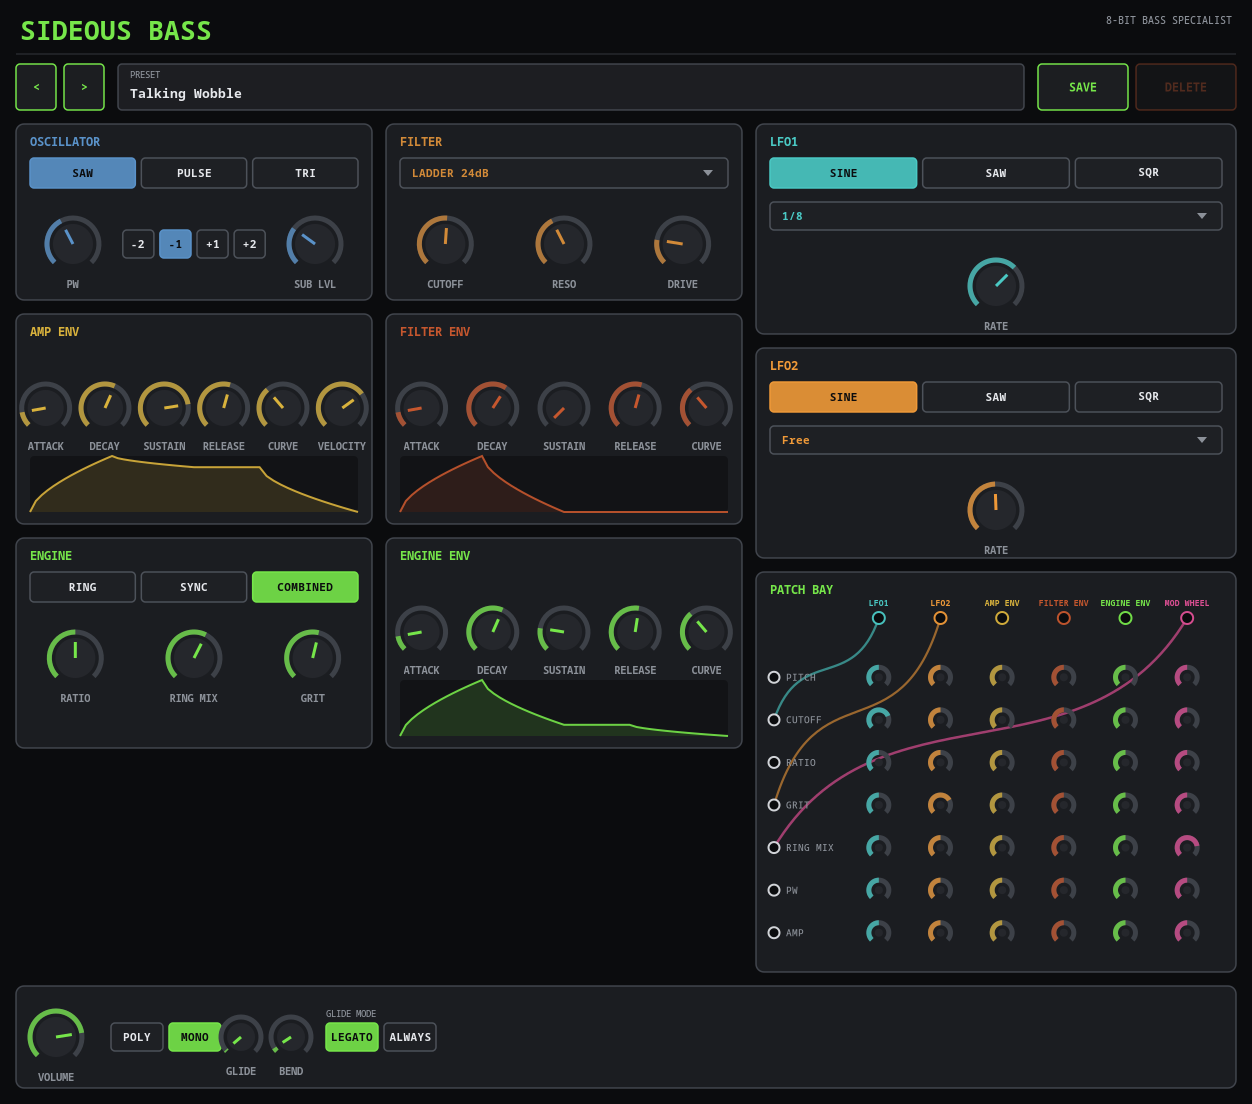
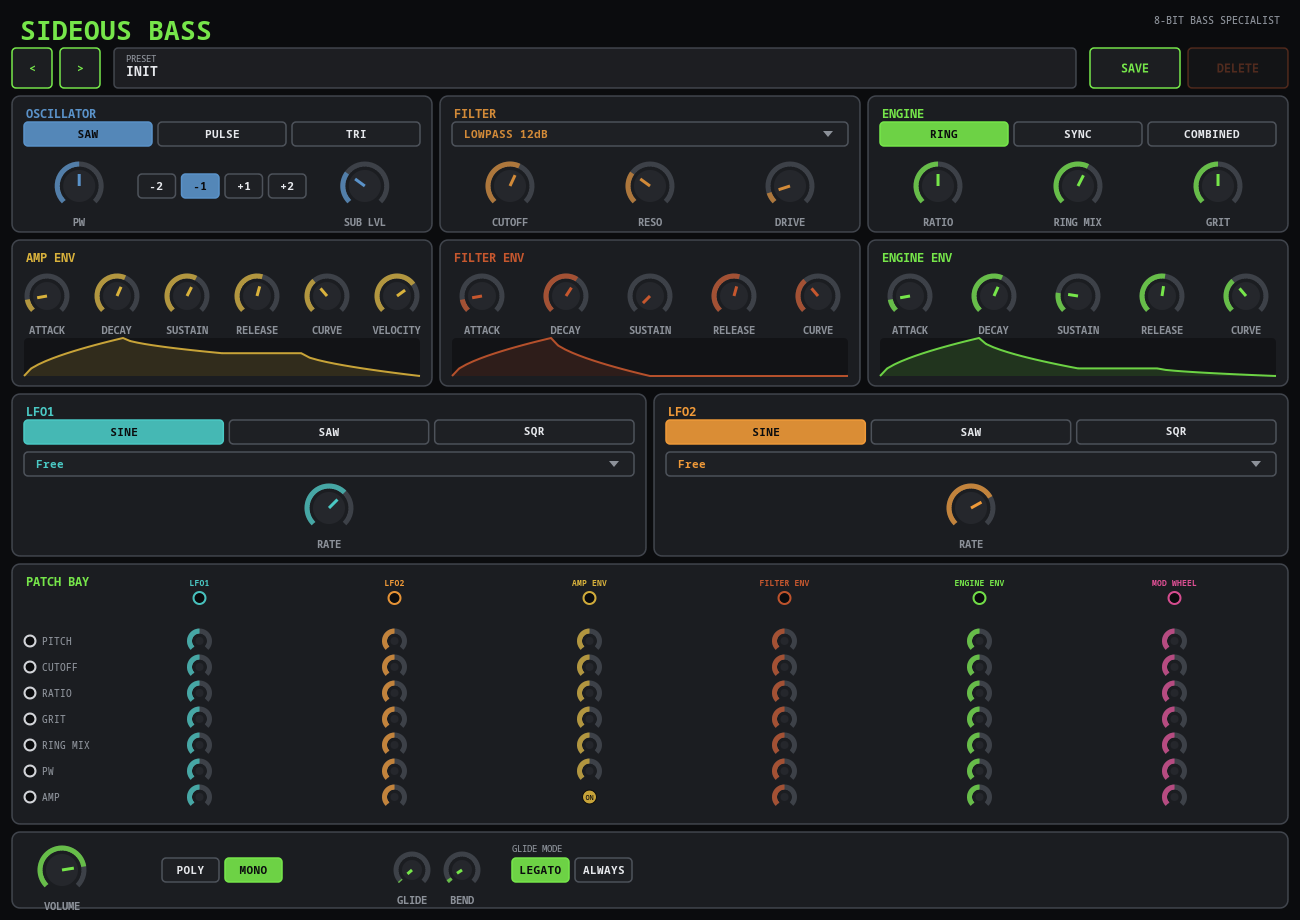
Add Shift-snap on Ring/Sync Ratio, compact UI, fix preset save bug
- Shift+drag on the Ring/Sync Ratio knob now snaps to 0.25 increments.
- UI reworked into a wider 3-column grid (1300x920 vs the old 1252x1104):
  the patch bay gets full width instead of being squeezed into a tall
  narrow column, which alone freed most of the height; knobs shrunk and
  tightened throughout, removed a redundant header divider line.
- Fixed a preset-save bug: clicking SAVE cleared the in-progress rename
  before presetSave() could read it, so the typed name was silently
  discarded in favor of the previous preset's name.

Changed region(s): [[0.0, 0.0, 0.9968, 1.0], [0.1246, 0.5783, 0.1869, 0.6391]]

diff --git a/plugins/SideousBass/ui/UIPainter.hpp b/plugins/SideousBass/ui/UIPainter.hpp
@@ -213,44 +213,30 @@ inline Layout buildLayout(float width, float height)
     L.width = width;
     L.height = height;
 
-    const float margin = 16.0f;
-    const float gap = 14.0f;
+    // wide-and-short rather than narrow-and-tall (same rework as sideous):
+    // a 3-column grid for the simple panels, 2-column for the knob-heavy
+    // envelopes, and the patch bay given the *full* width instead of being
+    // squeezed into a tall narrow column - it only ever needed 7 destination
+    // rows of vertical space regardless of column width, so widening it
+    // shrinks its height for free instead of needing 400px to breathe.
+    const float margin = 12.0f;
+    const float gap = 8.0f;
+    const float fullW = width - margin * 2.0f;
+    const float colW = (fullW - gap) / 2.0f;             // 2-col rows: envelopes, LFO1/LFO2
+    const float colBx = margin + colW + gap;
+    const float col3W = (fullW - gap * 2.0f) / 3.0f;      // 3-col row: OSC/FILTER/ENGINE
+    const float col3Bx = margin + col3W + gap;
+    const float col3Cx = col3Bx + col3W + gap;
 
-    // two independent tracks side by side: a 2-column synthesis-panel grid
-    // on the left (Oscillator/Filter/AmpEnv/FilterEnv/Engine/EngineEnv, same
-    // shape every sibling uses), and a single narrower column on the right
-    // holding LFO1/LFO2/PATCH BAY - keeping the whole modulation story (two
-    // generators feeding straight into the matrix that routes them) in one
-    // vertical strip instead of stretching the window ever taller. The two
-    // tracks generally end at different heights; the bottom bar spans full
-    // width below whichever track is taller.
-    const float leftW = 726.0f;
-    const float leftSubColW = (leftW - gap) / 2.0f;
-    const float leftColX = margin;
-    const float leftColBx = leftColX + leftSubColW + gap;
+    // preset bar: full width, right below the header; everything else starts below it
+    const float presetBarY = 48.0f, presetBarH = 40.0f;
 
-    const float rightColX = leftColX + leftW + gap;
-    const float rightW = 480.0f;
-
-    const float totalContentW = rightColX + rightW - margin;
-
-    // preset bar: full width, spans both tracks, everything else starts below it
-    const float presetBarY = 64.0f, presetBarH = 46.0f;
-
-    // row1H must clear: top selector row (34+30) + gap to knob row (56) +
-    // knob radius (26) + label baseline offset (14) + bottom padding.
-    const float row1Y = presetBarY + presetBarH + gap, row1H = 176.0f;
-    const float row2Y = row1Y + row1H + gap, row2H = 210.0f;
-    const float row3Y = row2Y + row2H + gap, row3H = 210.0f;
-    const float leftTrackBottom = row3Y + row3H;
-
-    const float rRow1Y = row1Y, rRow1H = 210.0f;
-    const float rRow2Y = rRow1Y + rRow1H + gap, rRow2H = 210.0f;
-    const float rRow3Y = rRow2Y + rRow2H + gap, rRow3H = 400.0f;
-    const float rightTrackBottom = rRow3Y + rRow3H;
-
-    const float barY = (leftTrackBottom > rightTrackBottom ? leftTrackBottom : rightTrackBottom) + gap;
-    const float barH = height - barY - margin;
+    const float row1Y = presetBarY + presetBarH + gap, row1H = 136.0f;  // OSC/FILTER/ENGINE
+    const float row2Y = row1Y + row1H + gap, row2H = 146.0f;            // AMP/FILTER/ENGINE ENV
+    const float row3Y = row2Y + row2H + gap, row3H = 162.0f;            // LFO1/LFO2
+    const float row4Y = row3Y + row3H + gap, row4H = 260.0f;            // PATCH BAY
+    const float barY = row4Y + row4H + gap, barH = height - barY - margin;
+    const float totalContentW = fullW;
 
     // --- preset bar --- (all positions absolute, left-to-right: prev/next,
     // then the name field filling the middle, then save/delete flush right)
@@ -274,16 +260,16 @@ inline Layout buildLayout(float width, float height)
         L.presetBar.nameH = h;
     }
 
-    L.panels.push_back({ leftColX, row1Y, leftSubColW, row1H, "OSCILLATOR", kSteelBlue });
-    L.panels.push_back({ leftColBx, row1Y, leftSubColW, row1H, "FILTER",    kCopper });
-    L.panels.push_back({ leftColX, row2Y, leftSubColW, row2H, "AMP ENV",    kBrass });
-    L.panels.push_back({ leftColBx, row2Y, leftSubColW, row2H, "FILTER ENV", kRust });
-    L.panels.push_back({ leftColX, row3Y, leftSubColW, row3H, "ENGINE",     kCrtGreen });
-    L.panels.push_back({ leftColBx, row3Y, leftSubColW, row3H, "ENGINE ENV", kCrtGreen });
-    L.panels.push_back({ rightColX, rRow1Y, rightW, rRow1H, "LFO1",       kChrome });
-    L.panels.push_back({ rightColX, rRow2Y, rightW, rRow2H, "LFO2",       kAmber });
-    L.panels.push_back({ rightColX, rRow3Y, rightW, rRow3H, "PATCH BAY",  kCrtGreen });
-    L.panels.push_back({ margin, barY, totalContentW, barH, nullptr, kCrtGreen });
+    L.panels.push_back({ margin,  row1Y, col3W, row1H, "OSCILLATOR", kSteelBlue }); // 0
+    L.panels.push_back({ col3Bx,  row1Y, col3W, row1H, "FILTER",     kCopper });    // 1
+    L.panels.push_back({ margin,  row2Y, col3W, row2H, "AMP ENV",    kBrass });     // 2
+    L.panels.push_back({ col3Bx,  row2Y, col3W, row2H, "FILTER ENV", kRust });      // 3
+    L.panels.push_back({ col3Cx,  row1Y, col3W, row1H, "ENGINE",     kCrtGreen });  // 4
+    L.panels.push_back({ col3Cx,  row2Y, col3W, row2H, "ENGINE ENV", kCrtGreen });  // 5
+    L.panels.push_back({ margin,  row3Y, colW,  row3H, "LFO1",       kChrome });    // 6
+    L.panels.push_back({ colBx,   row3Y, colW,  row3H, "LFO2",       kAmber });     // 7
+    L.panels.push_back({ margin,  row4Y, fullW, row4H, "PATCH BAY",  kCrtGreen });  // 8
+    L.panels.push_back({ margin,  barY,  fullW, barH,  nullptr, kCrtGreen });       // 9
 
     // --- oscillator ---
     {
@@ -291,26 +277,26 @@ inline Layout buildLayout(float width, float height)
         Selector wave;
         wave.param = kParamWaveform;
         wave.accent = p.accent;
-        wave.x = p.x + 14.0f; wave.y = p.y + 34.0f; wave.w = p.w - 28.0f; wave.h = 30.0f;
+        wave.x = p.x + 12.0f; wave.y = p.y + 26.0f; wave.w = p.w - 24.0f; wave.h = 24.0f;
         wave.options = { { 0.0f, "SAW" }, { 1.0f, "PULSE" }, { 2.0f, "TRI" } };
         L.selectors.push_back(wave);
 
-        const float rowY = p.y + 34.0f + 30.0f + 56.0f;
+        const float rowY = p.y + 26.0f + 24.0f + 40.0f;
 
         // PW knob | sub-osc octave selector | sub-osc level knob, side by side
-        L.knobs.push_back({ kParamPulseWidth, p.x + p.w * 0.16f, rowY, 26.0f, "PW", p.accent });
+        L.knobs.push_back({ kParamPulseWidth, p.x + p.w * 0.16f, rowY, 22.0f, "PW", p.accent });
 
         Selector subOct;
         subOct.param = kParamSubOctave;
         subOct.accent = p.accent;
         subOct.w = p.w * 0.40f;
         subOct.x = p.x + p.w * 0.5f - subOct.w * 0.5f;
-        subOct.h = 28.0f;
+        subOct.h = 24.0f;
         subOct.y = rowY - subOct.h * 0.5f;
         subOct.options = { { -2.0f, "-2" }, { -1.0f, "-1" }, { 1.0f, "+1" }, { 2.0f, "+2" } };
         L.selectors.push_back(subOct);
 
-        L.knobs.push_back({ kParamSubLevel, p.x + p.w * 0.84f, rowY, 26.0f, "SUB LVL", p.accent });
+        L.knobs.push_back({ kParamSubLevel, p.x + p.w * 0.84f, rowY, 22.0f, "SUB LVL", p.accent });
     }
 
     // --- filter --- (Cutoff/Reso/Drive only - envelope amount is now
@@ -320,7 +306,7 @@ inline Layout buildLayout(float width, float height)
         Dropdown mode;
         mode.param = kParamFilterMode;
         mode.accent = p.accent;
-        mode.x = p.x + 14.0f; mode.y = p.y + 34.0f; mode.w = p.w - 28.0f; mode.h = 30.0f;
+        mode.x = p.x + 12.0f; mode.y = p.y + 26.0f; mode.w = p.w - 24.0f; mode.h = 24.0f;
         mode.options = {
             { 0.0f, "LOWPASS 12dB" },
             { 1.0f, "LOWPASS 24dB" },
@@ -331,7 +317,7 @@ inline Layout buildLayout(float width, float height)
         };
         L.dropdowns.push_back(mode);
 
-        addKnobRow(L.knobs, p.x, p.w, p.y + 34.0f + 30.0f + 56.0f, 26.0f, p.accent,
+        addKnobRow(L.knobs, p.x, p.w, p.y + 26.0f + 24.0f + 40.0f, 22.0f, p.accent,
                    {
                        { kParamFilterCutoff,    "CUTOFF" },
                        { kParamFilterResonance, "RESO" },
@@ -344,8 +330,8 @@ inline Layout buildLayout(float width, float height)
     // everything else)
     {
         const PanelBox& p = L.panels[2];
-        const float rowY = p.y + 34.0f + 60.0f;
-        addKnobRow(L.knobs, p.x, p.w, rowY, 24.0f, p.accent,
+        const float rowY = p.y + 26.0f + 30.0f;
+        addKnobRow(L.knobs, p.x, p.w, rowY, 20.0f, p.accent,
                    {
                        { kParamAmpAttack,           "ATTACK" },
                        { kParamAmpDecay,             "DECAY" },
@@ -357,15 +343,15 @@ inline Layout buildLayout(float width, float height)
 
         L.envelopeGraphs.push_back({
             kParamAmpAttack, kParamAmpDecay, kParamAmpSustain, kParamAmpRelease, kParamAmpCurve,
-            p.x + 14.0f, rowY + 24.0f + 24.0f, p.w - 28.0f, 56.0f, p.accent });
+            p.x + 12.0f, rowY + 20.0f + 22.0f, p.w - 24.0f, 38.0f, p.accent });
     }
 
     // --- filter envelope --- (generator only; what it modulates is decided
     // by the mod matrix)
     {
         const PanelBox& p = L.panels[3];
-        const float rowY = p.y + 34.0f + 60.0f;
-        addKnobRow(L.knobs, p.x, p.w, rowY, 24.0f, p.accent,
+        const float rowY = p.y + 26.0f + 30.0f;
+        addKnobRow(L.knobs, p.x, p.w, rowY, 20.0f, p.accent,
                    {
                        { kParamFilterAttack,   "ATTACK" },
                        { kParamFilterDecay,    "DECAY" },
@@ -376,7 +362,7 @@ inline Layout buildLayout(float width, float height)
 
         L.envelopeGraphs.push_back({
             kParamFilterAttack, kParamFilterDecay, kParamFilterSustain, kParamFilterRelease, kParamFilterEnvCurve,
-            p.x + 14.0f, rowY + 24.0f + 24.0f, p.w - 28.0f, 56.0f, p.accent });
+            p.x + 12.0f, rowY + 20.0f + 22.0f, p.w - 24.0f, 38.0f, p.accent });
     }
 
     // --- engine (Ring / Sync / Combined) - the instrument's core concept ---
@@ -386,7 +372,7 @@ inline Layout buildLayout(float width, float height)
         Selector engine;
         engine.param = kParamEngineMode;
         engine.accent = p.accent;
-        engine.x = p.x + 14.0f; engine.y = p.y + 34.0f; engine.w = p.w - 28.0f; engine.h = 30.0f;
+        engine.x = p.x + 12.0f; engine.y = p.y + 26.0f; engine.w = p.w - 24.0f; engine.h = 24.0f;
         engine.options = { { 0.0f, "RING" }, { 1.0f, "SYNC" }, { 2.0f, "COMBINED" } };
         L.selectors.push_back(engine);
 
@@ -394,7 +380,7 @@ inline Layout buildLayout(float width, float height)
         // selection (same convention as sideous-pad's Unison/Formant
         // panels) - Ratio drives Ring and Sync, Ring Mix only Ring, Grit
         // only Combined; the labels make each knob's relevance obvious.
-        addKnobRow(L.knobs, p.x, p.w, engine.y + engine.h + 56.0f, 26.0f, p.accent,
+        addKnobRow(L.knobs, p.x, p.w, engine.y + engine.h + 40.0f, 22.0f, p.accent,
                    {
                        { kParamRingSyncRatio, "RATIO" },
                        { kParamRingMix,       "RING MIX" },
@@ -406,8 +392,8 @@ inline Layout buildLayout(float width, float height)
     // matrix's Engine Env -> Ratio cell - the classic "swept sync" bass move)
     {
         const PanelBox& p = L.panels[5];
-        const float rowY = p.y + 34.0f + 60.0f;
-        addKnobRow(L.knobs, p.x, p.w, rowY, 24.0f, p.accent,
+        const float rowY = p.y + 26.0f + 30.0f;
+        addKnobRow(L.knobs, p.x, p.w, rowY, 20.0f, p.accent,
                    {
                        { kParamEngineAttack,    "ATTACK" },
                        { kParamEngineDecay,      "DECAY" },
@@ -418,7 +404,7 @@ inline Layout buildLayout(float width, float height)
 
         L.envelopeGraphs.push_back({
             kParamEngineAttack, kParamEngineDecay, kParamEngineSustain, kParamEngineRelease, kParamEngineEnvCurve,
-            p.x + 14.0f, rowY + 24.0f + 24.0f, p.w - 28.0f, 56.0f, p.accent });
+            p.x + 12.0f, rowY + 20.0f + 22.0f, p.w - 24.0f, 38.0f, p.accent });
     }
 
     // --- LFO1 / LFO2 --- (generators only; destinations are entirely the
@@ -428,36 +414,36 @@ inline Layout buildLayout(float width, float height)
         Selector wave;
         wave.param = kParamLfo1Waveform;
         wave.accent = p.accent;
-        wave.x = p.x + 14.0f; wave.y = p.y + 34.0f; wave.w = p.w - 28.0f; wave.h = 30.0f;
+        wave.x = p.x + 12.0f; wave.y = p.y + 26.0f; wave.w = p.w - 24.0f; wave.h = 24.0f;
         wave.options = { { 0.0f, "SINE" }, { 1.0f, "SAW" }, { 2.0f, "SQR" } };
         L.selectors.push_back(wave);
 
         Dropdown sync;
         sync.param = kParamLfo1Sync;
         sync.accent = p.accent;
-        sync.x = p.x + 14.0f; sync.y = wave.y + wave.h + 14.0f; sync.w = p.w - 28.0f; sync.h = 28.0f;
+        sync.x = p.x + 12.0f; sync.y = wave.y + wave.h + 8.0f; sync.w = p.w - 24.0f; sync.h = 24.0f;
         sync.options = syncOptions();
         L.dropdowns.push_back(sync);
 
-        L.knobs.push_back({ kParamLfo1RateHz, p.x + p.w * 0.5f, sync.y + sync.h + 56.0f, 26.0f, "RATE", p.accent });
+        L.knobs.push_back({ kParamLfo1RateHz, p.x + p.w * 0.5f, sync.y + sync.h + 32.0f, 22.0f, "RATE", p.accent });
     }
     {
         const PanelBox& p = L.panels[7];
         Selector wave;
         wave.param = kParamLfo2Waveform;
         wave.accent = p.accent;
-        wave.x = p.x + 14.0f; wave.y = p.y + 34.0f; wave.w = p.w - 28.0f; wave.h = 30.0f;
+        wave.x = p.x + 12.0f; wave.y = p.y + 26.0f; wave.w = p.w - 24.0f; wave.h = 24.0f;
         wave.options = { { 0.0f, "SINE" }, { 1.0f, "SAW" }, { 2.0f, "SQR" } };
         L.selectors.push_back(wave);
 
         Dropdown sync;
         sync.param = kParamLfo2Sync;
         sync.accent = p.accent;
-        sync.x = p.x + 14.0f; sync.y = wave.y + wave.h + 14.0f; sync.w = p.w - 28.0f; sync.h = 28.0f;
+        sync.x = p.x + 12.0f; sync.y = wave.y + wave.h + 8.0f; sync.w = p.w - 24.0f; sync.h = 24.0f;
         sync.options = syncOptions();
         L.dropdowns.push_back(sync);
 
-        L.knobs.push_back({ kParamLfo2RateHz, p.x + p.w * 0.5f, sync.y + sync.h + 56.0f, 26.0f, "RATE", p.accent });
+        L.knobs.push_back({ kParamLfo2RateHz, p.x + p.w * 0.5f, sync.y + sync.h + 32.0f, 22.0f, "RATE", p.accent });
     }
 
     // --- patch bay --- (the mod matrix: 6 sources x 7 destinations, all
@@ -474,11 +460,11 @@ inline Layout buildLayout(float width, float height)
     {
         const PanelBox& p = L.panels[8];
 
-        const float headerY = p.y + 46.0f;      // source jack row
-        const float gridLeftX = p.x + 92.0f;    // first source column
-        const float gridRightX = p.x + p.w - 18.0f;
-        const float gridTop = headerY + 38.0f;  // first destination row
-        const float gridBottom = p.y + p.h - 18.0f;
+        const float headerY = p.y + 34.0f;      // source jack row
+        const float gridLeftX = p.x + 90.0f;    // first source column
+        const float gridRightX = p.x + p.w - 16.0f;
+        const float gridTop = headerY + 30.0f;  // first destination row
+        const float gridBottom = p.y + p.h - 14.0f;
 
         for (int s = 0; s < kModSourceCount; ++s)
         {
@@ -513,23 +499,23 @@ inline Layout buildLayout(float width, float height)
     {
         const PanelBox& p = L.panels[9];
         const float cy = p.y + p.h * 0.5f;
-        L.knobs.push_back({ kParamMasterVolume, p.x + 40.0f, cy, 26.0f, "VOLUME", kCrtGreen });
+        L.knobs.push_back({ kParamMasterVolume, p.x + 50.0f, cy, 22.0f, "VOLUME", kCrtGreen });
 
         Selector mode;
         mode.param = kParamVoiceMode;
         mode.accent = p.accent;
-        mode.x = p.x + 95.0f; mode.y = cy - 14.0f; mode.w = 110.0f; mode.h = 28.0f;
+        mode.x = p.x + 150.0f; mode.y = cy - 12.0f; mode.w = 120.0f; mode.h = 24.0f;
         mode.options = { { 0.0f, "POLY" }, { 1.0f, "MONO" } };
         L.selectors.push_back(mode);
 
-        L.knobs.push_back({ kParamPortamentoTime, p.x + 225.0f, cy, 20.0f, "GLIDE", kCrtGreen });
-        L.knobs.push_back({ kParamPitchBendRange, p.x + 275.0f, cy, 20.0f, "BEND", kCrtGreen });
+        L.knobs.push_back({ kParamPortamentoTime, p.x + 400.0f, cy, 16.0f, "GLIDE", kCrtGreen });
+        L.knobs.push_back({ kParamPitchBendRange, p.x + 450.0f, cy, 16.0f, "BEND", kCrtGreen });
 
         Selector glideMode;
         glideMode.param = kParamGlideMode;
         glideMode.accent = p.accent;
         glideMode.caption = "GLIDE MODE";
-        glideMode.x = p.x + 310.0f; glideMode.y = cy - 14.0f; glideMode.w = 110.0f; glideMode.h = 28.0f;
+        glideMode.x = p.x + 500.0f; glideMode.y = cy - 12.0f; glideMode.w = 120.0f; glideMode.h = 24.0f;
         glideMode.options = { { 0.0f, "LEGATO" }, { 1.0f, "ALWAYS" } };
         L.selectors.push_back(glideMode);
     }
@@ -569,6 +555,19 @@ inline float normalizedToParam(uint32_t param, float t) noexcept
         return lo * std::pow(hi / lo, t);
     }
     return info.min + (info.max - info.min) * t;
+}
+
+// Shift+drag snap increment for a knob, in raw param units (0 = no
+// snapping for that param). Only assigned where a fixed step is actually
+// musically meaningful - e.g. Ring/Sync's Ratio knob, where landing exactly
+// on 0.5/1.0/1.5/2.0/... etc. matters far more than smooth sweeping does.
+inline float shiftSnapStep(uint32_t param) noexcept
+{
+    switch (param)
+    {
+    case kParamRingSyncRatio: return 0.25f;
+    default:                  return 0.0f;
+    }
 }
 
 // selector option rects are needed both for drawing and for mouse hit-testing;
@@ -1116,12 +1115,6 @@ inline void paint(cairo_t* cr, const Layout& L, const PaintState& state)
         cairo_text_extents(cr, subtitle, &ext);
         drawText(cr, subtitle, L.width - 20.0 - ext.width, 24.0);
     }
-
-    setColor(cr, kPanelEdge, 0.6);
-    cairo_set_line_width(cr, 1.0);
-    cairo_move_to(cr, 16.0, 54.0);
-    cairo_line_to(cr, L.width - 16.0, 54.0);
-    cairo_stroke(cr);
 
     paintPresetBar(cr, L.presetBar, state);
 

diff --git a/plugins/SideousBass/SideousBassUI.cpp b/plugins/SideousBass/SideousBassUI.cpp
@@ -143,14 +143,18 @@ protected:
             const int presetBtn = hitTestPresetButton(mx, my);
             if (presetBtn >= 0)
             {
-                fEditingName = false; // a button click always cancels any in-progress rename
+                // SAVE must see fEditingName/fEditBuffer as-is - it commits the
+                // in-progress rename itself (and clears fEditingName when done).
+                // Clearing it here first, like the other buttons do to cancel a
+                // pending rename, made SAVE silently discard the typed name and
+                // fall back to whatever fCurrentName already was.
                 switch (presetBtn)
                 {
-                case 0: presetStep(-1); break;
-                case 1: presetStep(1);  break;
+                case 0: fEditingName = false; presetStep(-1); break;
+                case 1: fEditingName = false; presetStep(1);  break;
                 case 2: presetSave();   break;
-                case 3: presetDelete(); break;
-                default: break;
+                case 3: fEditingName = false; presetDelete(); break;
+                default: fEditingName = false; break;
                 }
                 repaint();
                 return true;
@@ -268,7 +272,19 @@ protected:
             float t = fDragStartT + (float)(dy / 200.0);
             t = t < 0.0f ? 0.0f : (t > 1.0f ? 1.0f : t);
 
-            const float value = ui::normalizedToParam(k.param, t);
+            float value = ui::normalizedToParam(k.param, t);
+
+            // Shift+drag snaps to a fixed step (only defined for knobs
+            // where landing on an exact value actually matters, e.g.
+            // Ring/Sync's Ratio - see ui::shiftSnapStep())
+            const float step = ui::shiftSnapStep(k.param);
+            if (step > 0.0f && (ev.mod & kModifierShift))
+            {
+                const ParamInfo& info = getParamInfo(k.param);
+                value = std::round(value / step) * step;
+                value = value < info.min ? info.min : (value > info.max ? info.max : value);
+            }
+
             fValues[k.param] = value;
             setParameterValue(k.param, value);
             repaint();

diff --git a/plugins/SideousBass/DistrhoPluginInfo.h b/plugins/SideousBass/DistrhoPluginInfo.h
@@ -20,8 +20,8 @@
 #define DISTRHO_PLUGIN_WANT_TIMEPOS     1
 
 #define DISTRHO_UI_USE_CAIRO             1
-#define DISTRHO_UI_DEFAULT_WIDTH         1252
-#define DISTRHO_UI_DEFAULT_HEIGHT        1104
+#define DISTRHO_UI_DEFAULT_WIDTH         1300
+#define DISTRHO_UI_DEFAULT_HEIGHT        920
 // must match the height ui/UIPainter.hpp's buildLayout() actually lays out to
 // (verified via the offline PNG renderer) - keep these two in sync by hand.
 
